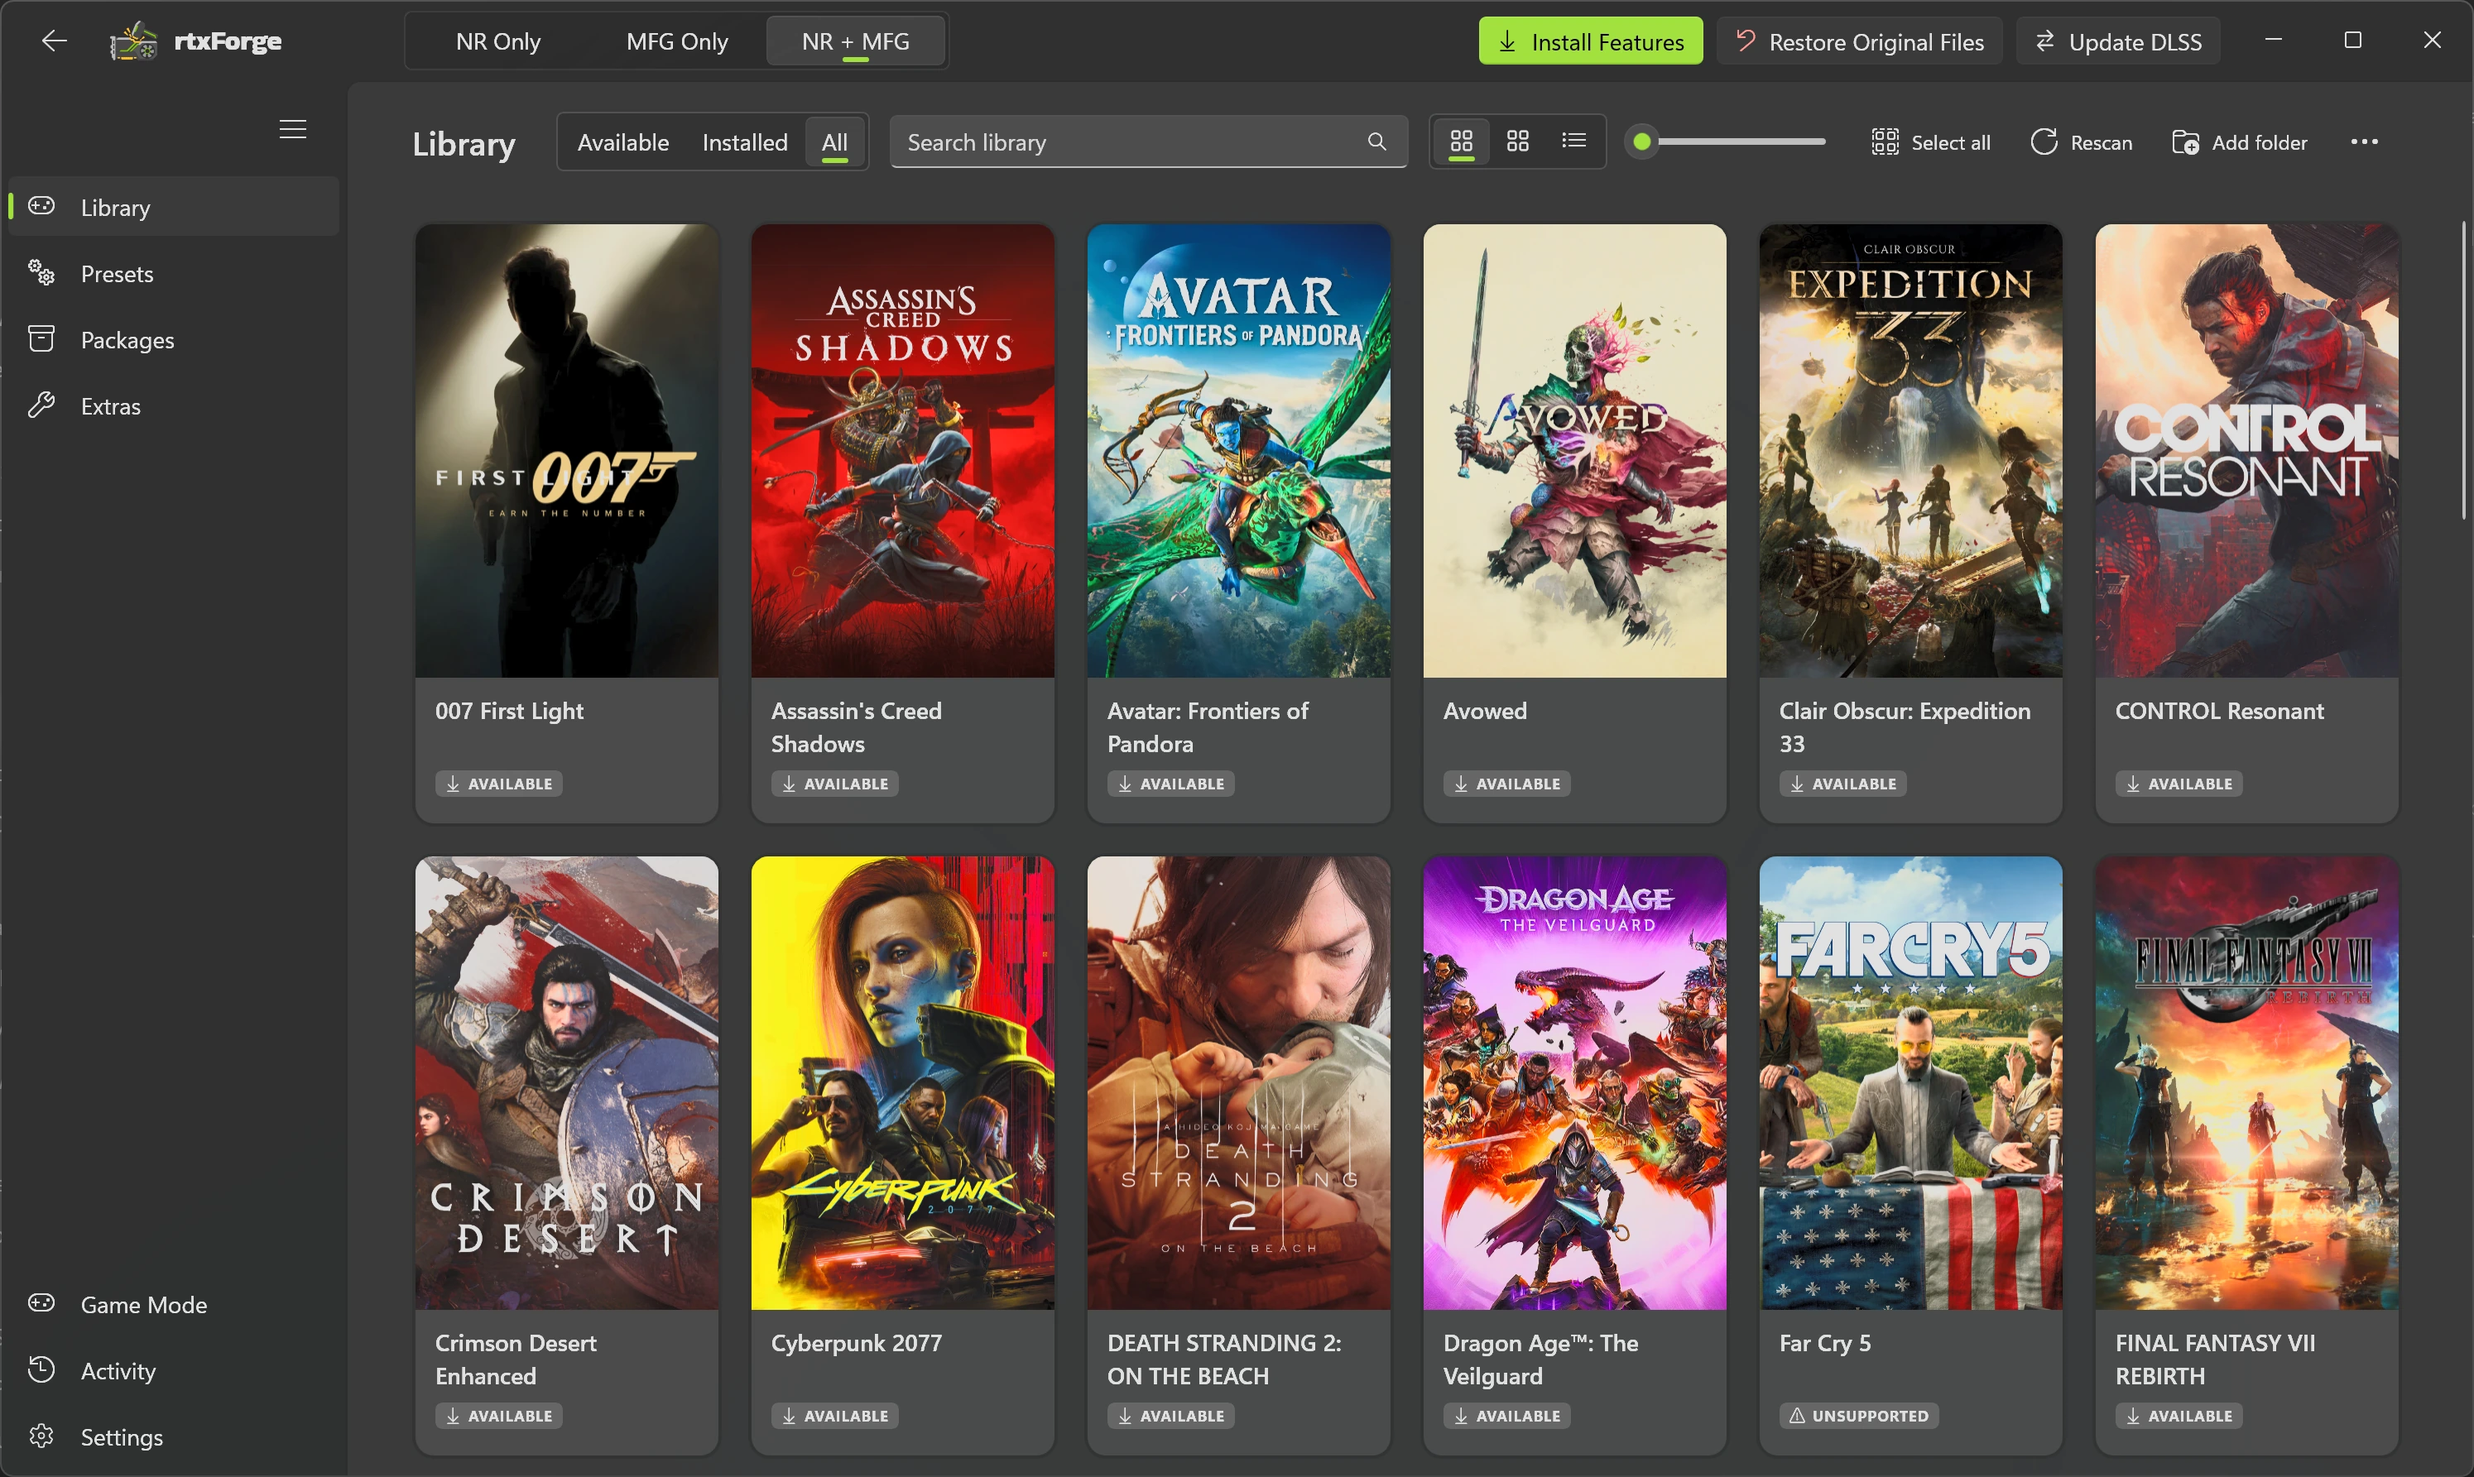
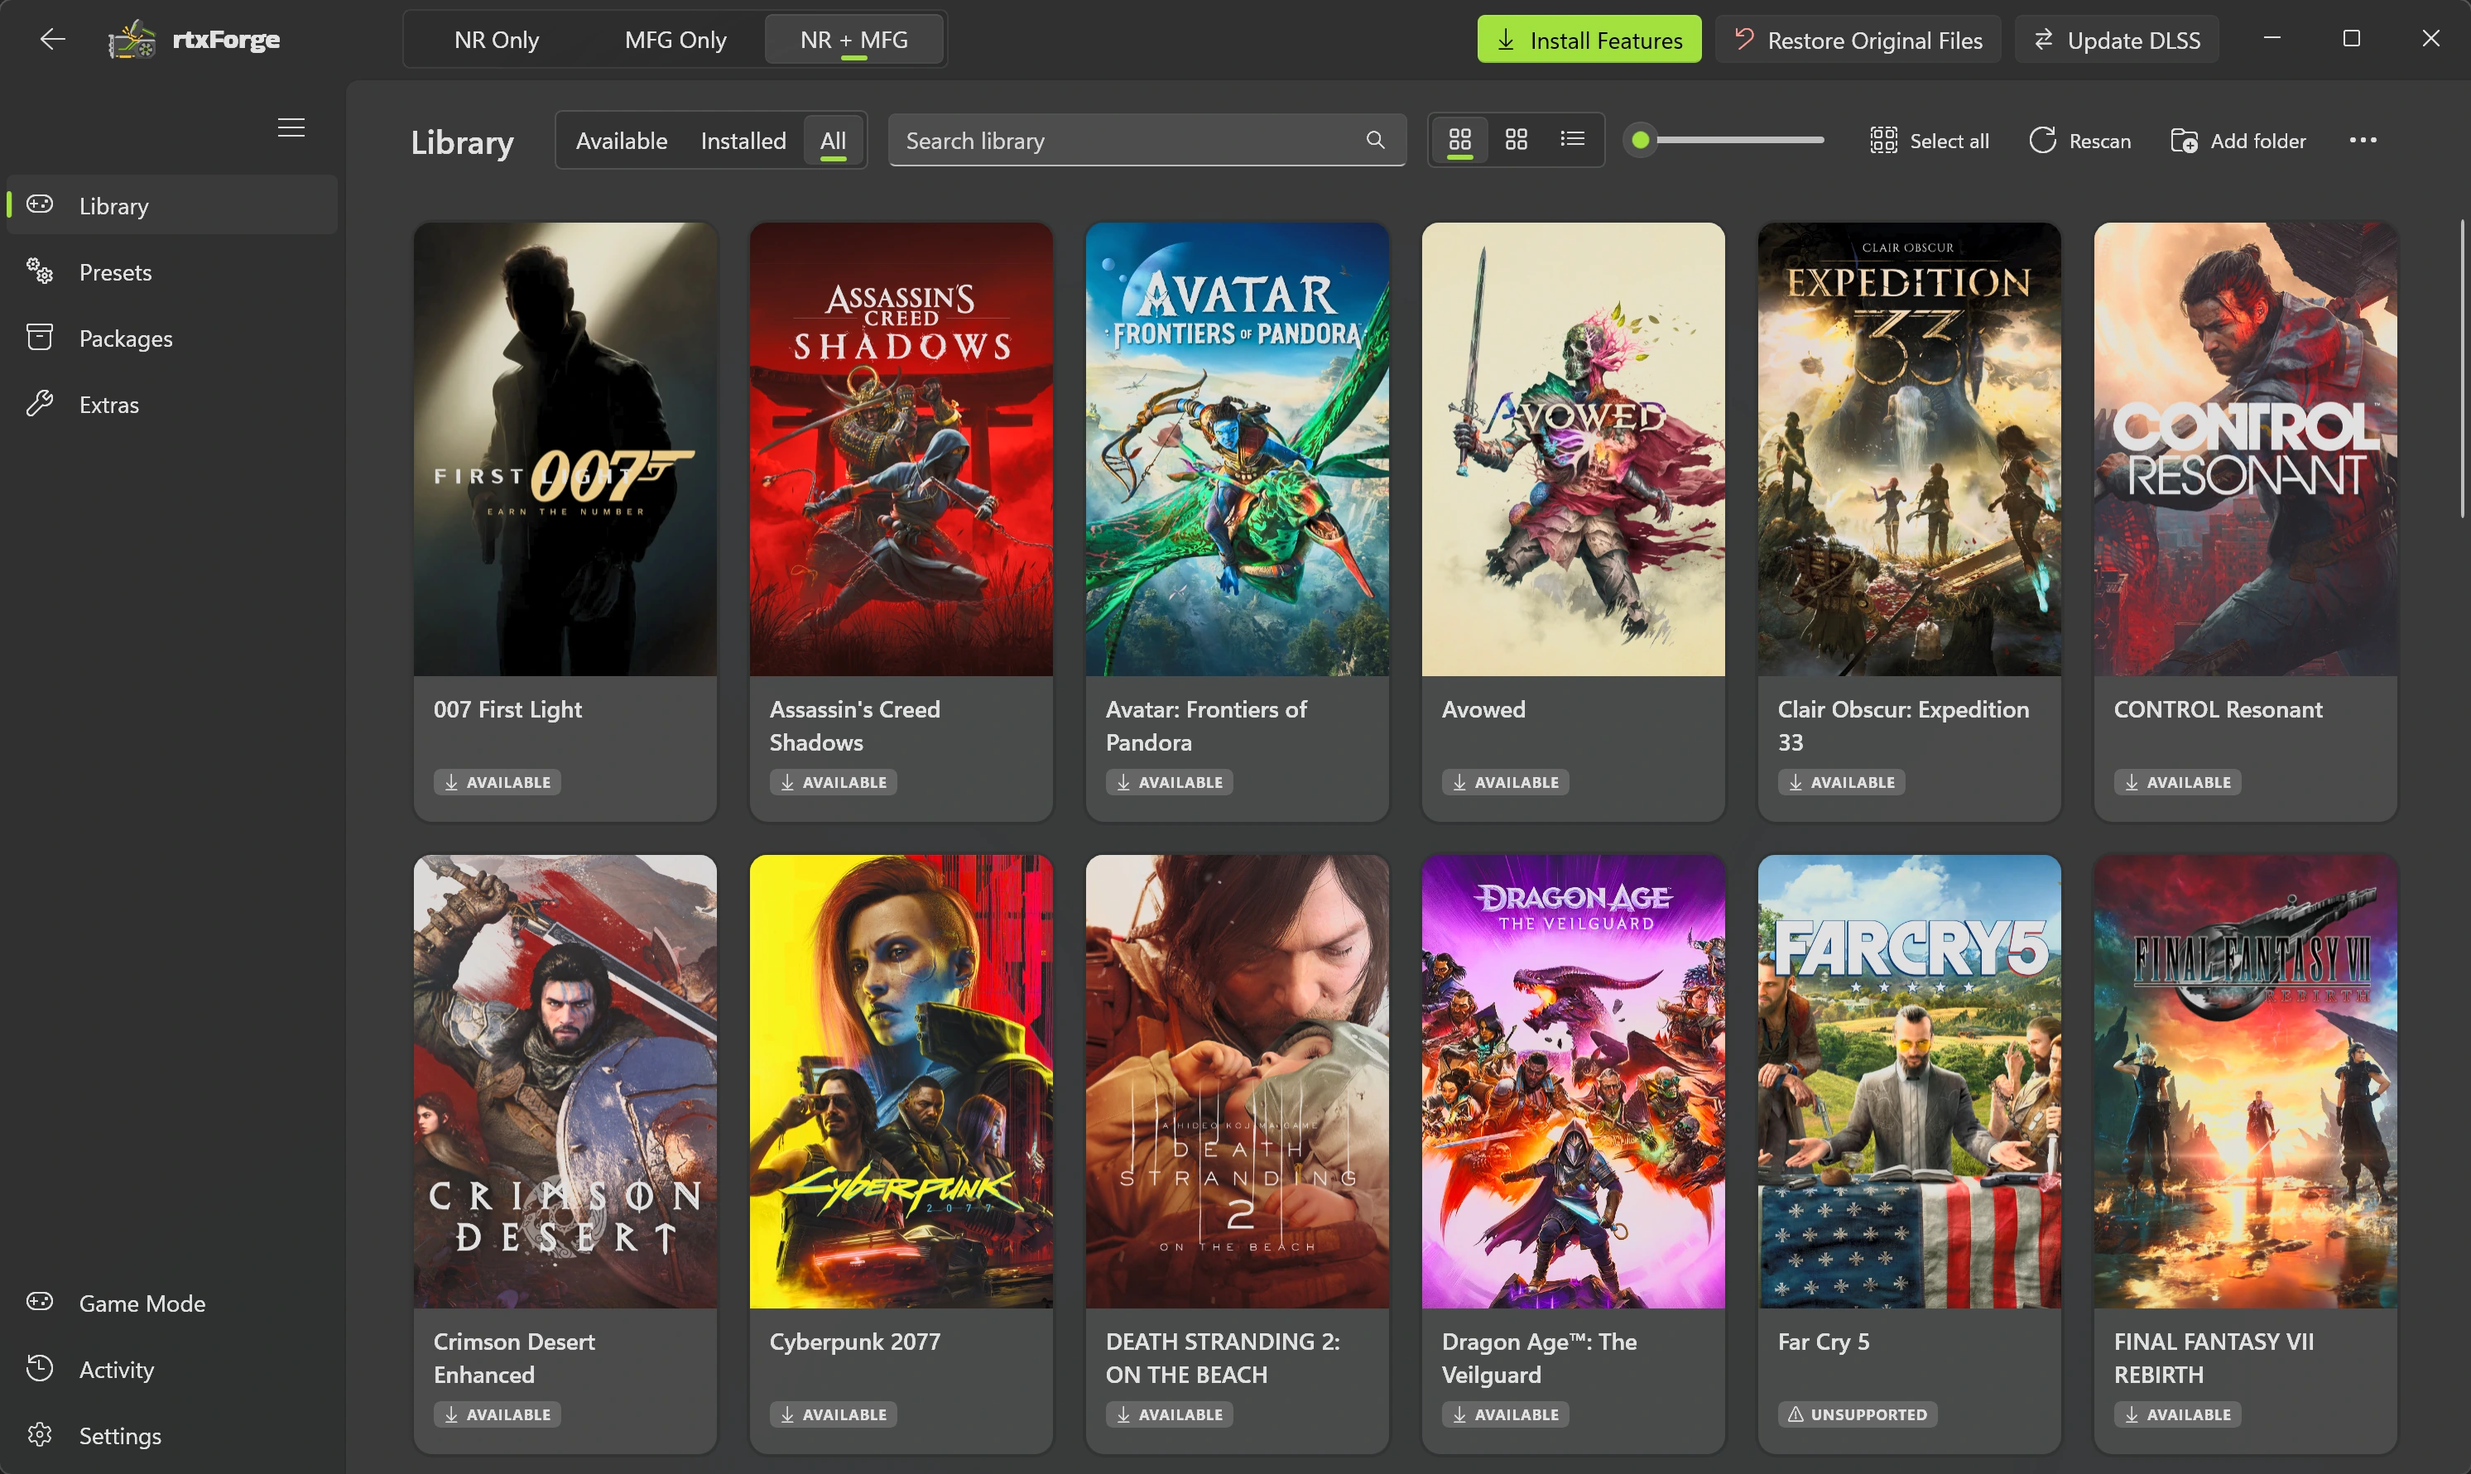
Refine screenshot corners and remove capture borders

diff --git a/website/public/styles.css b/website/public/styles.css
@@ -96,7 +96,7 @@ body{position:relative;isolation:isolate}.page{position:relative;z-index:1}.hero
 .feature-media img{display:block;width:100%;height:auto;border-radius:0;box-shadow:0 14px 35px rgba(0,0,0,.2)}
 /* Keep the Presets heading and native canvas around every control card. */
 #feature-presets-media{position:relative;aspect-ratio:2470/1455;overflow:hidden;border-radius:4px;box-shadow:0 14px 35px rgba(0,0,0,.16)}
-#feature-presets-media img{position:absolute;width:121.012%;max-width:none;height:auto;left:-19.028%;top:-6.873%;border-radius:0;box-shadow:none}
+#feature-presets-media img{position:absolute;width:120.850%;max-width:none;height:auto;left:-18.947%;top:-6.735%;border-radius:0;box-shadow:none}
 /* Game Mode needs the whole screen and controller footer, with room to read it. */
 .feature-play>.feature-copy{grid-template-columns:1fr;gap:28px}
 #feature-game-mode-media{margin-top:28px}
@@ -144,7 +144,7 @@ body{position:relative;isolation:isolate}.page{position:relative;z-index:1}.hero
   .feature-media{margin-top:28px}
   /* Preserve native breathing room around the complete NR card on phones. */
   #feature-presets-media{aspect-ratio:1235/805}
-  #feature-presets-media img{width:242.024%;left:-38.057%;top:-80.745%}
+  #feature-presets-media img{width:241.700%;left:-37.895%;top:-80.497%}
   .faq{grid-template-columns:1fr;gap:18px;margin-top:48px;padding-top:32px}
   .faq>h2{font-size:30px;margin:0}
   .faq>h2 br{display:none}

diff --git a/website/README.md b/website/README.md
@@ -28,7 +28,7 @@ The Desktop / Game Mode tabs operate independently of the OS selector. Linux Gam
 
 The October 21 Windows images show the actual native private sample app, using the user's trimmed library and copied custom artwork from their live library. Install operations in that sample are simulated; the screenshots do not measure real install speed. The user's supplied Desktop images are 2989 × 1785. Game Mode runs at 3840 × 2160 and Nudge transported 2560 × 1440 captures with actual Xbox controller glyphs visible. New Desktop install captures were transported as 2560 × 1441. Capture receipts preserve the executable identity; its exact compiled source was not independently established. UI screenshots do not establish physical-controller, rendering, overlay, or real installation acceptance.
 
-Original PNGs remain private. The user approved pixel-only removal of the Sample badge from supplied Desktop captures, with every pixel outside its small badge rectangle verified unchanged. No generated UI or recoloring is used. Install derivatives crop to complete native panels, with transparent rounded corners and CSS shadows; full originals retain the app context. WebP derivatives use quality 92 without additional scaling. Images preserve their proportions inside the shared stage. Corner radii scale from native capture pixels rather than using a fixed website radius; fullscreen Game Mode captures stay square.
+Original PNGs remain private. The user approved pixel-only removal of the Sample badge from supplied Desktop captures, with every pixel outside its small badge rectangle verified unchanged. No generated UI or recoloring is used. Install derivatives crop to complete native panels, with transparent rounded corners and CSS shadows; full originals retain the app context. Public full-screen derivatives trim only the measured two-pixel capture border: the Desktop perimeter and Game Mode top edge. WebP derivatives use quality 92 without additional scaling. Images preserve their proportions inside the shared stage. Desktop and fullscreen Game Mode captures use subtle corner radii that scale from native capture pixels rather than a fixed website radius.
 
 The Presets feature uses a CSS crop with native padding around the heading and complete cards on desktop, and the full neural-rendering card on phones. Game Mode's Play illustration preserves the full screenshot and controller footer. Feature images may fall back to Windows on either OS page pending Linux replacements; alt text and internal provenance retain their Windows identity. Controls remain opaque, and no gradient crosses the UI.
 
